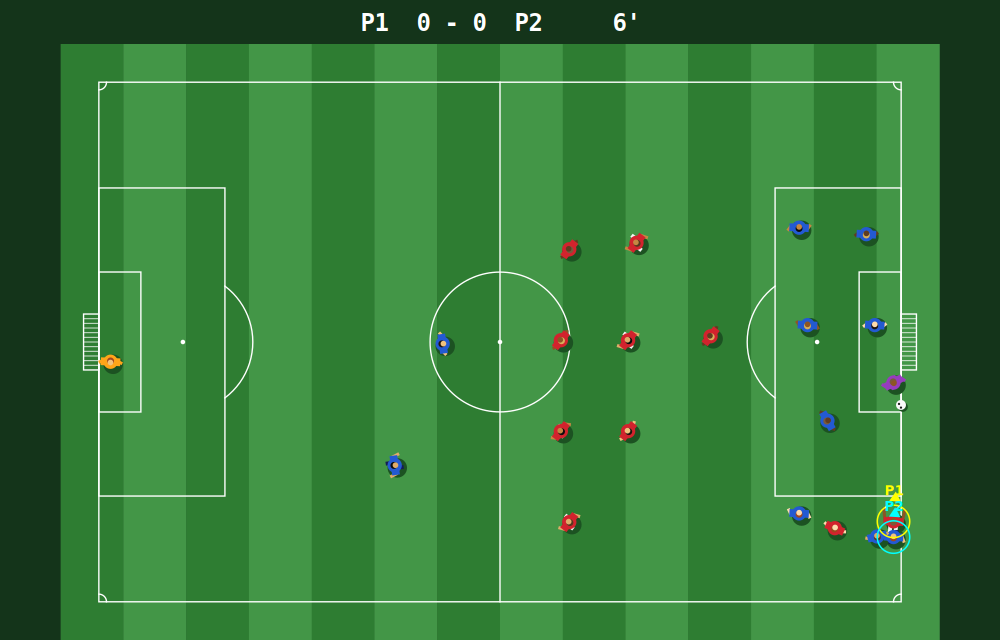
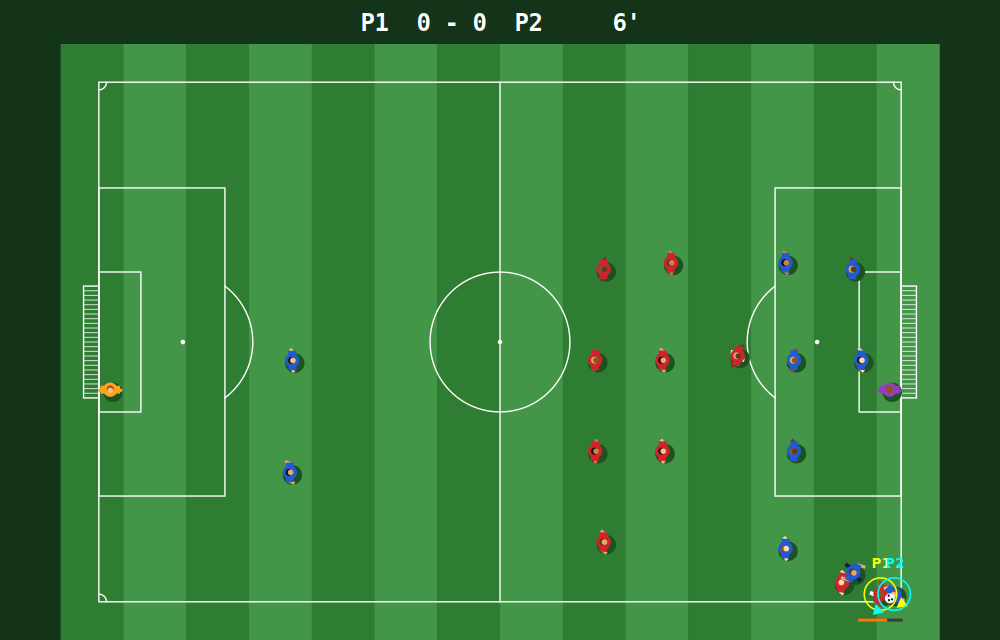
Stop player and ball flicker caused by animation; double goal width
The figures themselves were flickering in both displays: legs were only
drawn above a speed threshold, and players drifting into position
crossed it ~28 times a second, so legs popped in and out. Facing also
snapped instantly to the velocity. Legs are now always drawn (tucked
under the body when standing), facing turns smoothly, ball panels no
longer blink, and window labels only repaint when their text changes.
Measured in simulation: leg toggles 28/s -> 0, >45 degree snaps -> 0.

Goals are now 14.64 m wide (2x regulation); shot aiming and keeper
positioning scale with it.

Claude-Session: https://claude.ai/code/session_017aMnjpbE9SGPH7HKbpspjR

diff --git a/CadFifa/Match.cs b/CadFifa/Match.cs
@@ -81,7 +81,8 @@ internal sealed class Match
     // FIFA-standard pitch, metres.
     public const float HalfLength = 52.5f;
     public const float HalfWidth = 34f;
-    public const float GoalHalfWidth = 3.66f;
+    /// <summary>Half the goal mouth: twice a regulation goal (7.32 m) for a more open, arcade game.</summary>
+    public const float GoalHalfWidth = 7.32f;
     public const float PenaltyDepth = 16.5f;
     public const float PenaltyHalfWidth = 20.16f;
 
@@ -263,7 +264,7 @@ internal sealed class Match
             p.Pos = new Vector2(
                 Clamp(p.Pos.X, -HalfLength + 1f, HalfLength - 1f),
                 Clamp(p.Pos.Y, -HalfWidth + 1f, HalfWidth - 1f));
-            if (p.Vel.LengthSquared() > 0.09f) p.Facing = Vector2.Normalize(p.Vel);
+            if (p.Vel.LengthSquared() > 0.09f) p.Facing = TurnToward(p.Facing, Vector2.Normalize(p.Vel), dt);
         }
         Separate();
         StepBall(dt);
@@ -300,7 +301,7 @@ internal sealed class Match
         {
             // Charge is still valid here because it is only reset below. A press that
             // started a tackle never turns into a shot, even if the slide won the ball.
-            if (hasBall && !c.PressUsedForTackle) Shoot(me, c.Charge, pad.Move.Y * 3f);
+            if (hasBall && !c.PressUsedForTackle) Shoot(me, c.Charge, pad.Move.Y * GoalHalfWidth * 0.8f);
             c.PressUsedForTackle = false;
         }
         if (!pad.ShootHeld) c.ChargeTime = 0f;
@@ -370,7 +371,7 @@ internal sealed class Match
             p.DecisionTimer = 0.35f;
             if (distGoal < 27f && _rng.NextDouble() < (distGoal < 18f ? 0.8 : 0.4))
             {
-                Shoot(p, 0.75f + (float)_rng.NextDouble() * 0.25f, ((float)_rng.NextDouble() * 2f - 1f) * 2.6f);
+                Shoot(p, 0.75f + (float)_rng.NextDouble() * 0.25f, ((float)_rng.NextDouble() * 2f - 1f) * (GoalHalfWidth - 1f));
                 return;
             }
             // Pass when pressed, and now and then just to move the ball forward.
@@ -737,6 +738,16 @@ internal sealed class Match
 
     // Math.Clamp is not available on .NET Framework 4.8 (AutoCAD 2024 and older).
     static float Clamp(float v, float min, float max) => v < min ? min : v > max ? max : v;
+
+    /// <summary>
+    /// Rotate a facing direction smoothly toward a target, so players turn rather than snap
+    /// (snapping made figures and the carried ball jump around on screen).
+    /// </summary>
+    static Vector2 TurnToward(Vector2 facing, Vector2 target, float dt)
+    {
+        var blended = facing + (target - facing) * Math.Min(1f, dt * 14f);
+        return blended.LengthSquared() < 1e-4f ? target : Vector2.Normalize(blended);
+    }
 
     static Vector2 Approach(Vector2 current, Vector2 target, float maxDelta)
     {

diff --git a/CadFifa/Look.cs b/CadFifa/Look.cs
@@ -67,9 +67,11 @@ internal static class Look
             ShoulderR = c - side * (float)(0.75 * S),
             Hair = c - fwd * (float)(0.06 * S),
             Head = c + fwd * (float)(0.06 * S),
-            // A slide goes in feet first; a player who has been tackled lies flat with legs trailing.
-            ShowLegs = sliding || down || stride > 0.05,
+            // Legs are always drawn: standing still they tuck under the body. Showing them only
+            // above a speed threshold made them pop in and out many times a second (flicker).
+            ShowLegs = true,
         };
+        // A slide goes in feet first; a player who has been tackled lies flat with legs trailing.
         Limb(c, side, fwd, 0.22, sliding ? 1.2 : down ? -1.1 : 0.75 * swing, 0, out b.LegL0, out b.LegL1);
         Limb(c, side, fwd, -0.22, sliding ? 0.9 : down ? -1.1 : -0.75 * swing, 0, out b.LegR0, out b.LegR1);
         // Arms swing opposite to the legs, and are thrown back for balance in a slide.
@@ -98,7 +100,8 @@ internal static class Look
         {
             double a = ball.Spin + i * 2.0 * Math.PI / 3.0;
             float along = (float)(Math.Sin(a) * 0.35), across = (i - 1) * 0.26f;
-            panels[i] = (ball.Pos + roll * along + side * across, Math.Cos(a) > -0.3); // hide panels on the far side
+            // Always visible: hiding panels "behind" the ball made them blink on and off as it rolled.
+            panels[i] = (ball.Pos + roll * along + side * across, true);
         }
         return panels;
     }

diff --git a/CadFifa/GameWindow.cs b/CadFifa/GameWindow.cs
@@ -79,6 +79,7 @@ internal sealed class GameWindow : Form
             _ => "CAD FIFA",
         };
         KeyPreview = true;
+        DoubleBuffered = true;
         BackColor = Color.FromArgb(24, 60, 30);
         ForeColor = Color.White;
 
@@ -179,10 +180,16 @@ internal sealed class GameWindow : Form
 
         string home = TwoPlayer && _match.Mode == GameMode.Versus ? "P1" : "HOME";
         string away = TwoPlayer && _match.Mode == GameMode.Versus ? "P2" : "AWAY";
-        _score.Text = $"{home} {_match.Score[0]} - {_match.Score[1]} {away}   {_match.MatchMinute}'";
-        _status.Text = _paused ? "PAUSED - click here to play"
+        // Only touch the labels when their text changes; re-setting them every frame repaints them.
+        SetText(_score, $"{home} {_match.Score[0]} - {_match.Score[1]} {away}   {_match.MatchMinute}'");
+        SetText(_status, _paused ? "PAUSED - click here to play"
             : _match.MessageTimer > 0f ? _match.Message
-            : InDrawing ? $"Draw mode: {DrawModes[_drawMode].Name}  (M to change)" : "";
+            : InDrawing ? $"Draw mode: {DrawModes[_drawMode].Name}  (M to change)" : "");
+    }
+
+    static void SetText(Label label, string text)
+    {
+        if (label.Text != text) label.Text = text;
     }
 
     [DllImport("user32.dll")]
